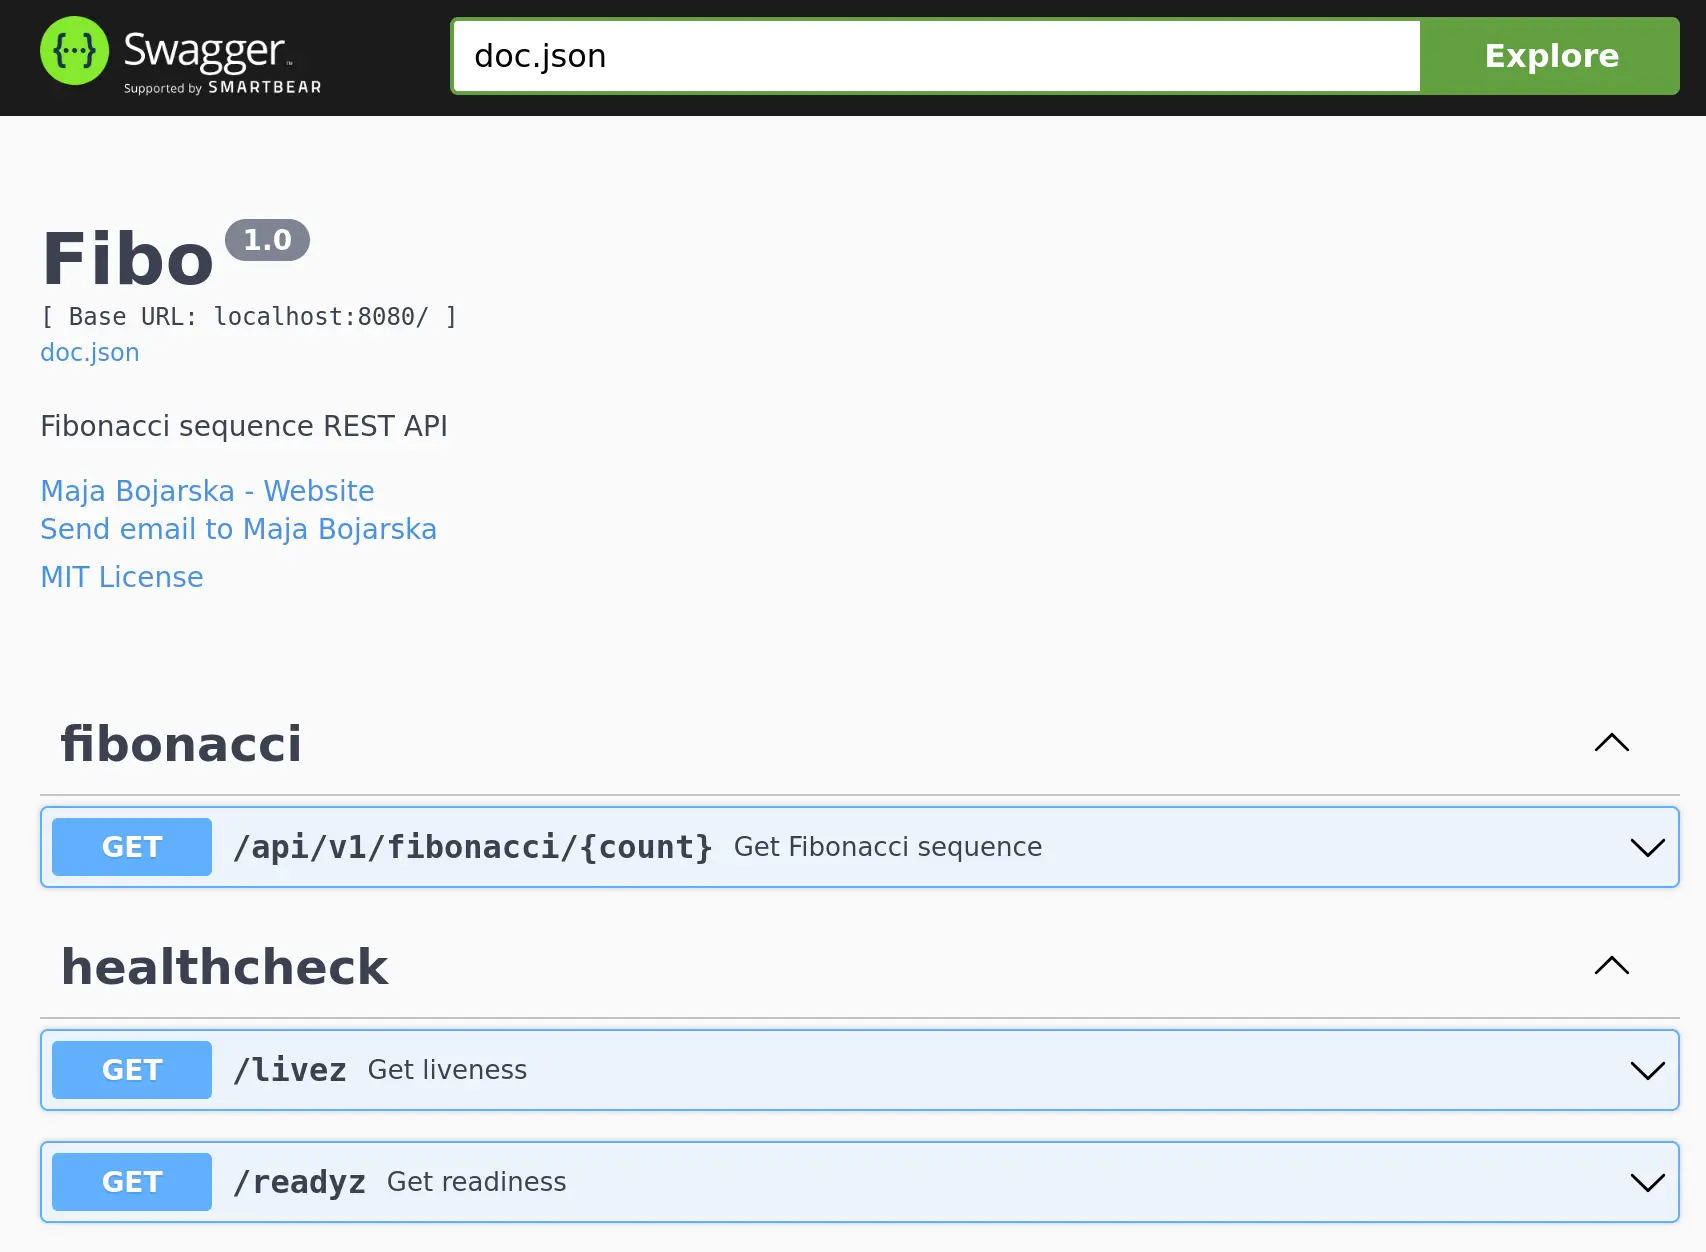
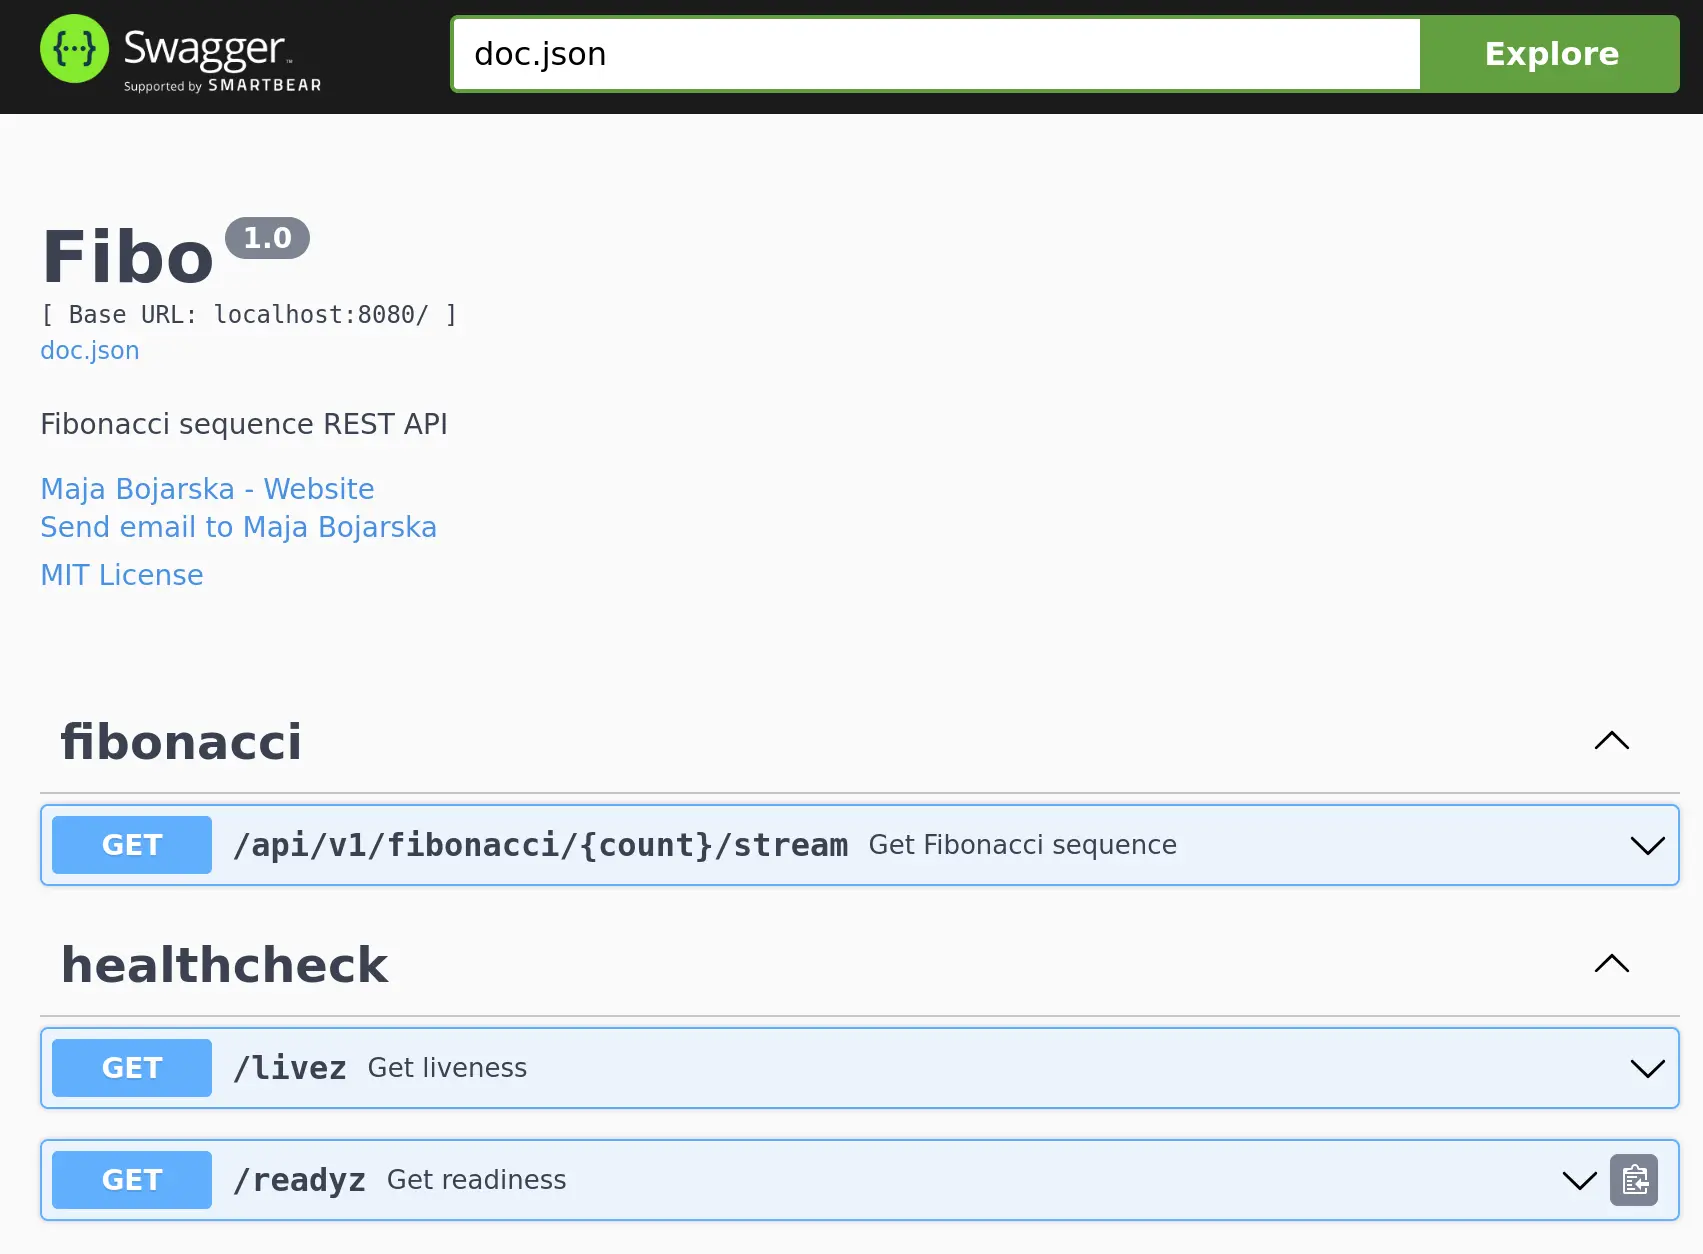
docs: Update readme (duration, swagger pic) (#43)

diff --git a/README.md b/README.md
@@ -75,7 +75,7 @@ Example:
 ```yaml
 api:
   addr: ":8080"
-  event_delay: 0.0
+  event_delay: 0s
 
 docs:
   enabled: true
@@ -96,16 +96,16 @@ See the [Zap documentation](https://pkg.go.dev/go.uber.org/zap#AtomicLevel.Unmar
 
 ### Environment variables
 
-| Name                 | Description                                   | Type   | Default      |
-| -------------------- | --------------------------------------------- | ------ | ------------ |
-| FIBO_API_ADDR        | REST API bind address                         | string | `":8080"`    |
-| FIBO_API_EVENT_DELAY | Time to wait between subsequent stream events | float  | 0.0          |
-| FIBO_DOCS_ENABLED    | Enables the REST API docs server (Swagger)    | bool   | `true`       |
-| FIBO_METRICS_ENABLED | Enables the Prometheus metrics server         | bool   | `true`       |
-| FIBO_METRICS_ADDR    | Metrics server bind address                   | string | `":9091"`    |
-| FIBO_METRICS_PATH    | Metrics server base URL                       | string | `"/metrics"` |
-| FIBO_LOGGING_LEVEL   | Log level                                     | string | "info"       |
-| FIBO_DEBUG           | Enables debug mode (Gin, Zap), starts pprof.  | bool   | `false`      |
+| Name                 | Description                                   | Type                                                       | Default      |
+| -------------------- | --------------------------------------------- | ---------------------------------------------------------- | ------------ |
+| FIBO_API_ADDR        | REST API bind address                         | string                                                     | `":8080"`    |
+| FIBO_API_EVENT_DELAY | Time to wait between subsequent stream events | string ([Duration](https://pkg.go.dev/time#ParseDuration)) | 0s           |
+| FIBO_DOCS_ENABLED    | Enables the REST API docs server (Swagger)    | bool                                                       | `true`       |
+| FIBO_METRICS_ENABLED | Enables the Prometheus metrics server         | bool                                                       | `true`       |
+| FIBO_METRICS_ADDR    | Metrics server bind address                   | string                                                     | `":9091"`    |
+| FIBO_METRICS_PATH    | Metrics server base URL                       | string                                                     | `"/metrics"` |
+| FIBO_LOGGING_LEVEL   | Log level                                     | string                                                     | "info"       |
+| FIBO_DEBUG           | Enables debug mode (Gin, Zap), starts pprof.  | bool                                                       | `false`      |
 
 ## Development
 
